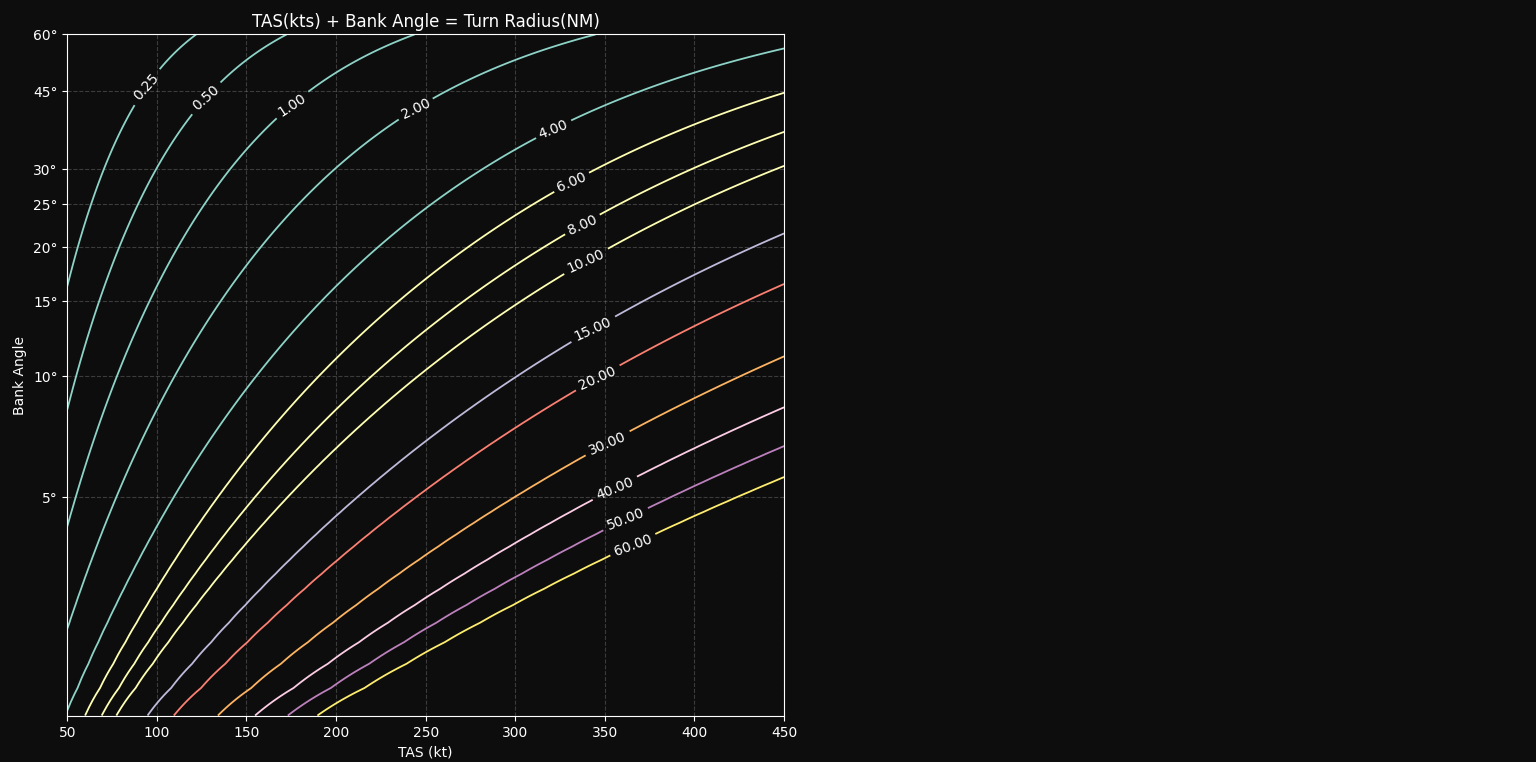
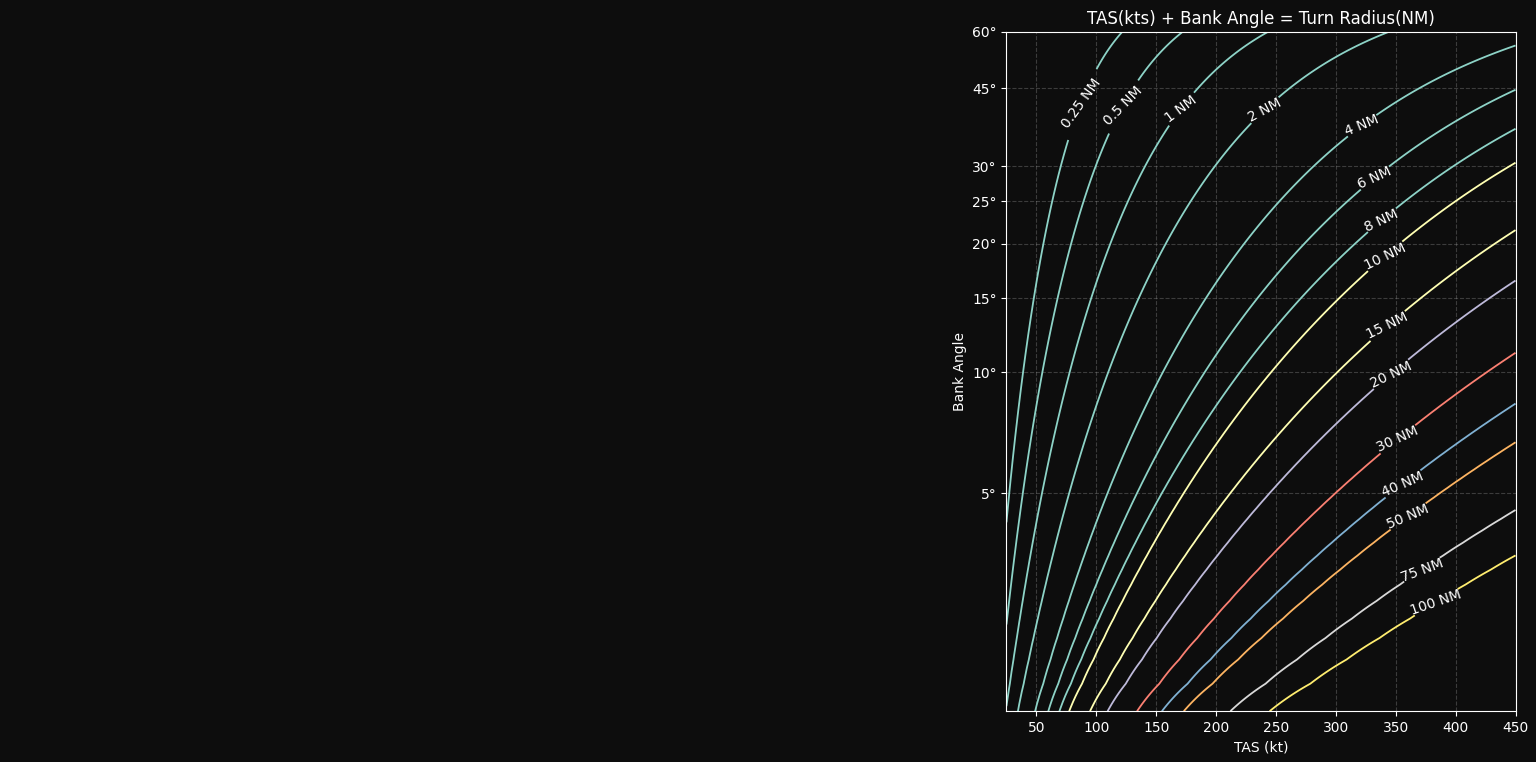
math error - fixed

diff --git a/main.py b/main.py
@@ -16,7 +16,7 @@ contour_label_color = "#ffffff"
 # Turn radius formula
 def turn_radius_nm(V, phi_deg):
     phi = np.radians(phi_deg)
-    return (1.457e-5 * (V**2) * 2) / np.tan(phi)
+    return (1.457e-5 * V**2) / np.tan(phi)
 
 # Range scaling
 TAS = np.linspace(25, 450, 200)
